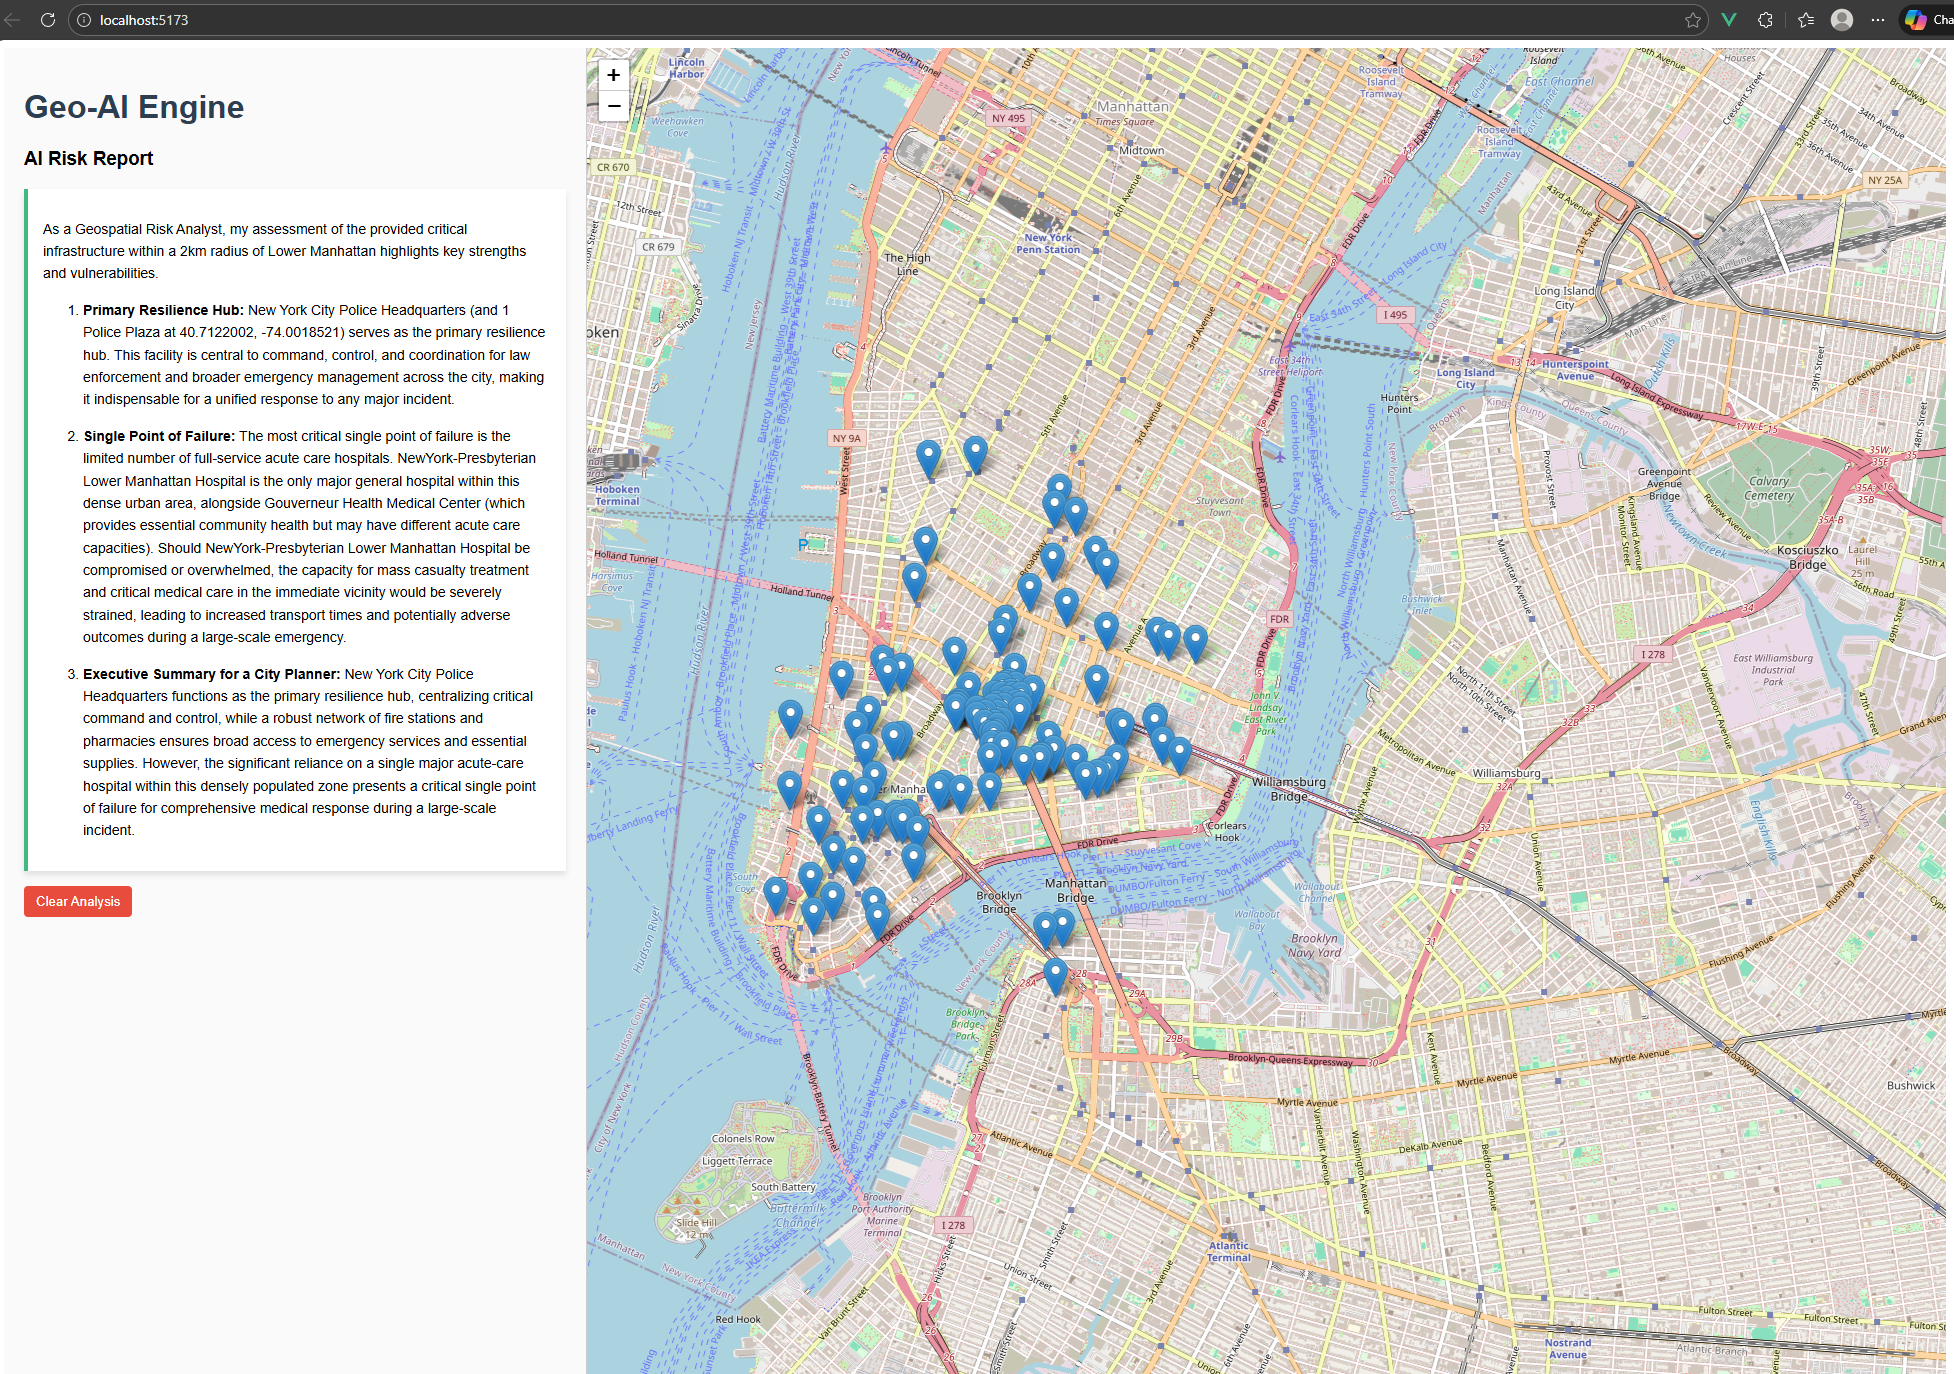
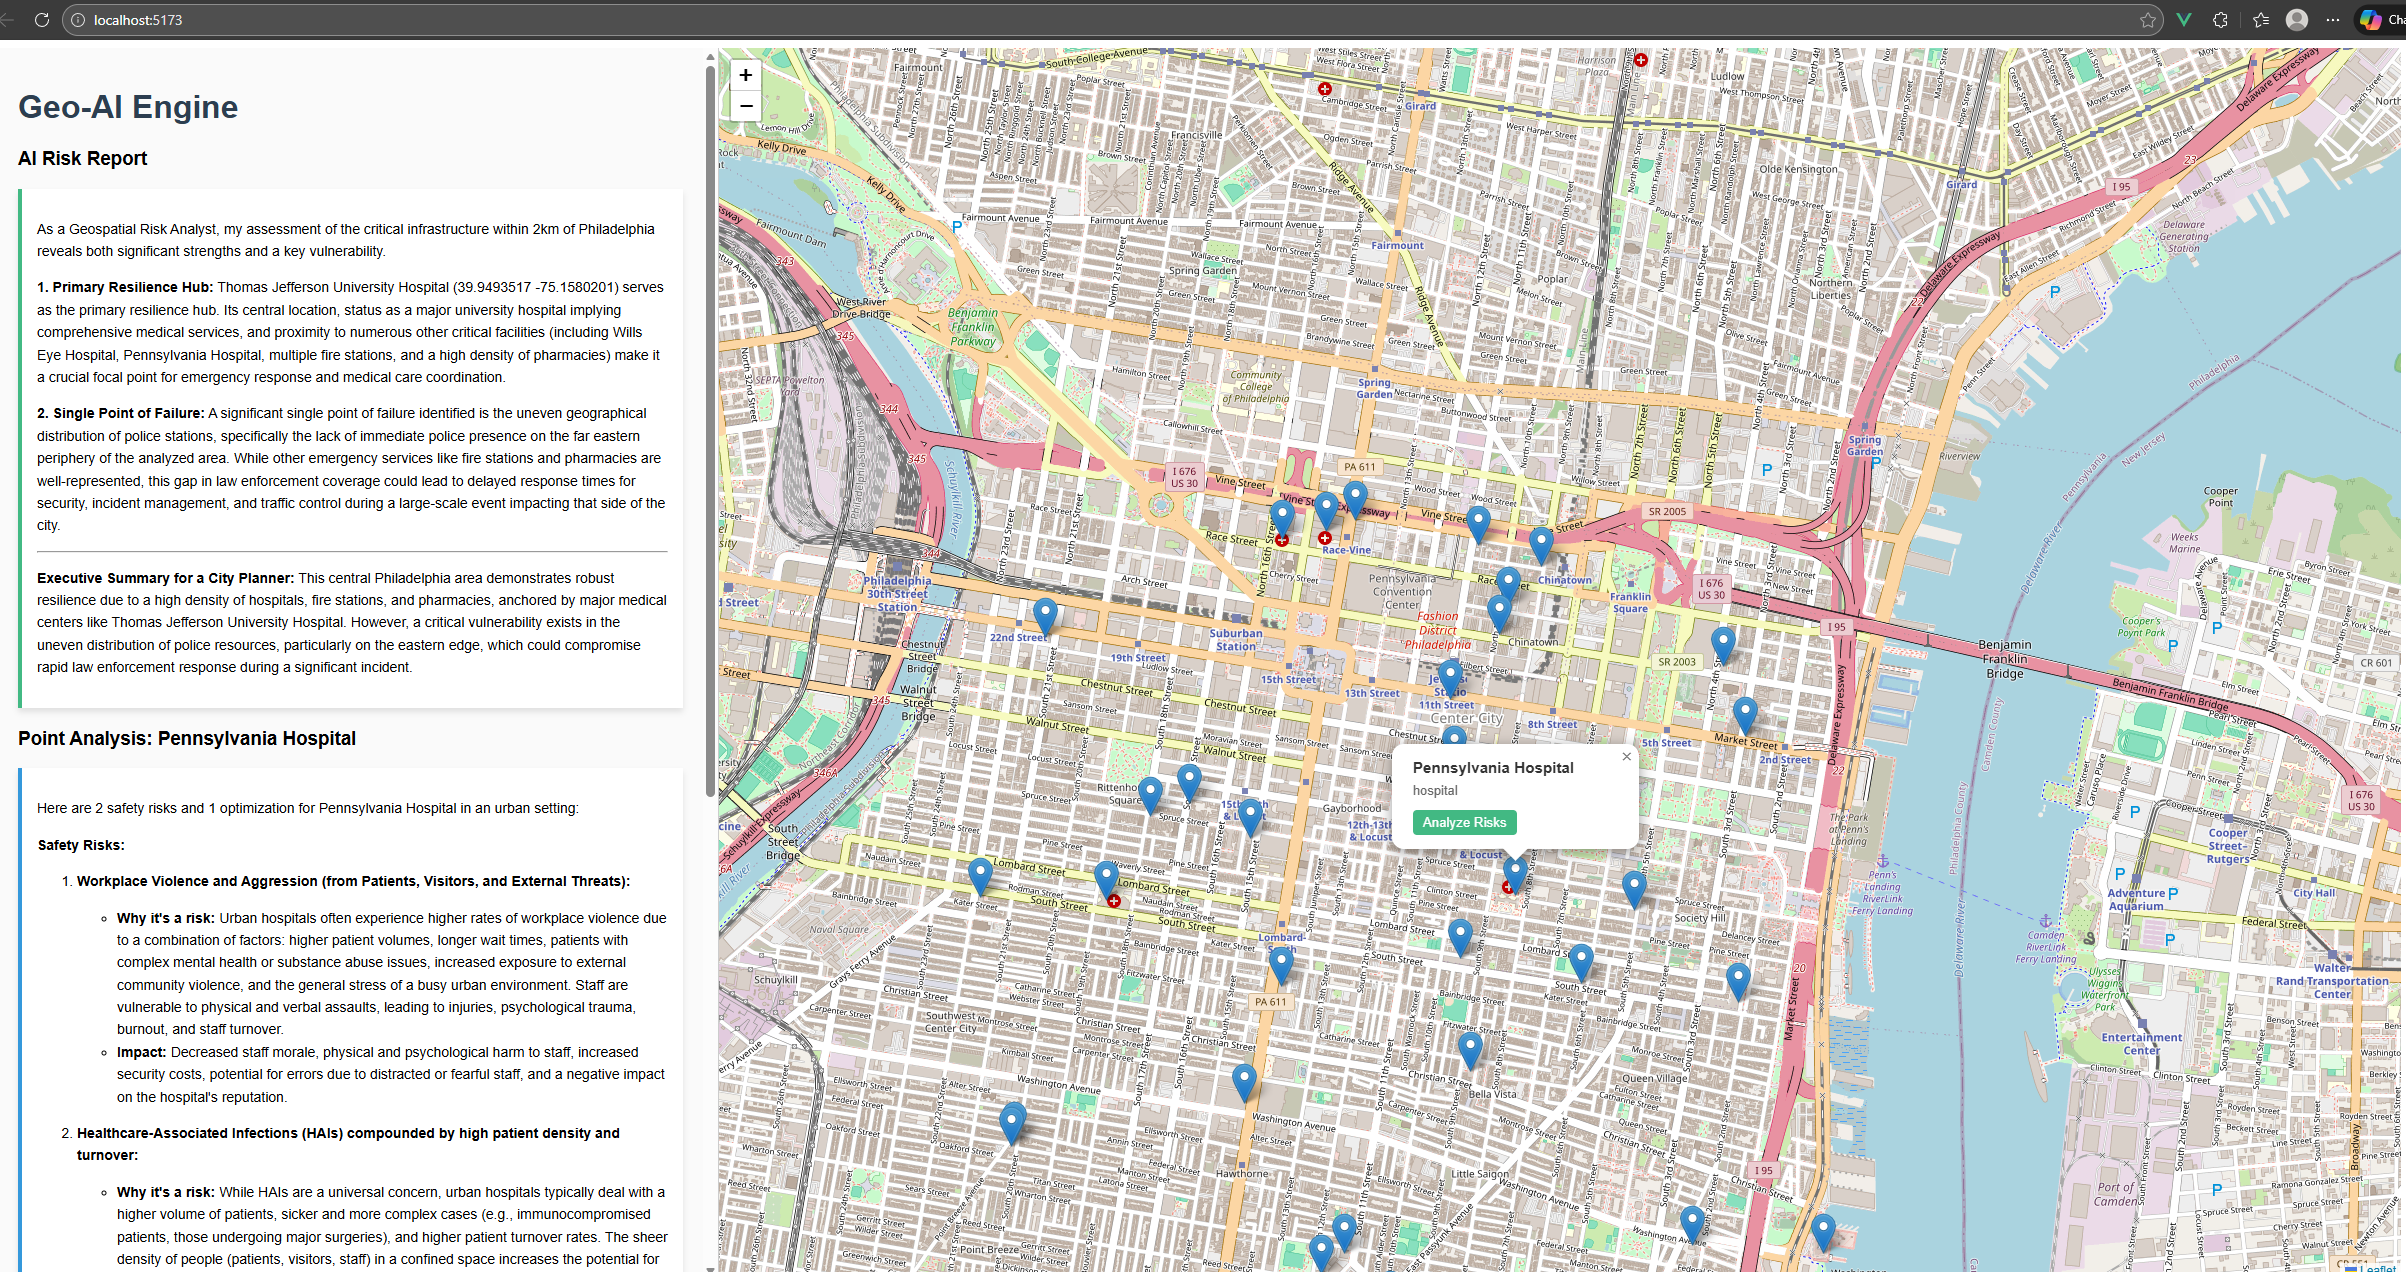
add error handling when data is not available and update screenshot

diff --git a/frontend/src/App.vue b/frontend/src/App.vue
@@ -8,11 +8,33 @@
           <div v-if="data" class="report-container">
             <h3 style="margin-top: 0;">AI Risk Report</h3>
             <div class="analysis-box">
-              <vue-markdown :source="data.riskAnalysis" />
+              <p v-if="data.error" style="color: #e74c3c; font-weight: bold;">{{ data.riskAnalysis }}</p>
+              <vue-markdown v-else :source="data.riskAnalysis" />
             </div>
-            <button @click="data = null" class="clear-btn">Clear Analysis</button>
           </div>
         </Transition>
+
+        <Transition name="slide-fade">
+          <div v-if="pointAnalysisLoading" class="analysis-box" style="margin-top: 20px; border-left-color: #3498db;">
+            <p style="margin: 0; color: #3498db;">Running detailed analysis on specific point...</p>
+          </div>
+        </Transition>
+
+        <Transition name="slide-fade">
+          <div v-if="pointAnalysis" class="report-container" style="margin-top: 20px;">
+            <h3 style="margin-top: 0;">Point Analysis: {{ pointAnalysis.name }}</h3>
+            <div class="analysis-box" style="border-left-color: #3498db;">
+              <vue-markdown :source="pointAnalysis.analysis" />
+            </div>
+            <button @click="pointAnalysis = null" class="clear-btn" style="background: #95a5a6;">Close Point
+              Analysis</button>
+          </div>
+        </Transition>
+
+        <div v-if="(data || pointAnalysis) && !loading && !pointAnalysisLoading" style="margin-top: 20px;">
+          <button @click="{ data = null; pointAnalysis = null; }" class="clear-btn">Clear All Analysis</button>
+        </div>
+
         <p v-if="!data && !loading" style="color: #7f8c8d;">
           Click anywhere on the map to generate a spatial AI analysis.
         </p>
@@ -20,12 +42,22 @@
     </div>
 
     <div style="flex: 1;">
-      <l-map ref="map" v-model:zoom="zoom" :center="center" @click="handleMapClick">
+      <l-map ref="map" v-model:zoom="zoom" :center="center" :use-global-leaflet="false"
+        style="height: 100%; width: 100%" @click="handleMapClick">
         <l-tile-layer url="https://{s}.tile.openstreetmap.org/{z}/{x}/{y}.png" />
-        <l-geo-json :geojson="data?.infraList" :options="geojsonOptions" />
         <l-marker v-for="(pt, i) in data?.infraList.features" :key="i"
           :lat-lng="[pt.geometry.coordinates[1], pt.geometry.coordinates[0]]">
-          <l-popup>{{ pt.properties.name }} ({{ pt.properties.type }})</l-popup>
+          <l-popup>
+            <div style="min-width: 200px;">
+              <h3 style="margin: 0 0 5px;">{{ pt.properties.name }}</h3>
+              <p style="margin: 0 0 10px; color: #666;">{{ pt.properties.type }}</p>
+
+              <button @click="analyzeSpecificPoint(pt)"
+                style="background: #42b983; color: white; border: none; padding: 5px 10px; border-radius: 4px; cursor: pointer;">
+                Analyze Risks
+              </button>
+            </div>
+          </l-popup>
         </l-marker>
       </l-map>
     </div>
@@ -38,17 +70,21 @@
 import { ref } from 'vue';
 import L from "leaflet";
 import VueMarkdown from 'vue-markdown-render';
-import { LMap, LTileLayer, LGeoJson, LMarker, LPopup } from "@vue-leaflet/vue-leaflet";
+import { LMap, LTileLayer, LMarker, LPopup } from "@vue-leaflet/vue-leaflet";
 import "leaflet/dist/leaflet.css";
 
-const zoom = ref(13);
-const center = ref([51.505, -0.09]);
+const zoom = ref(4);
+const center = ref([39.8283, -98.5795]);
 const data = ref(null);
 const loading = ref(false);
+const pointAnalysis = ref(null);
+const pointAnalysisLoading = ref(false);
 
 const handleMapClick = async (event) => {
   const { lat, lng } = event.latlng;
   loading.value = true;
+  data.value = null; // Reset previous data
+  pointAnalysis.value = null; // Reset point analysis
   try {
     const res = await fetch(`http://localhost:8000/api/infrastructures?withRiskAnalysis=true&lat=${lat}&lon=${lng}`);
     data.value = await res.json();
@@ -56,6 +92,24 @@ const handleMapClick = async (event) => {
     console.error("Analysis failed", err);
   } finally {
     loading.value = false;
+  }
+};
+
+const analyzeSpecificPoint = async (feature) => {
+  pointAnalysisLoading.value = true;
+  pointAnalysis.value = null;
+  try {
+    const res = await fetch(`http://localhost:8000/api/analyzePoint?amenity=${feature.properties.type}&name=${feature.properties.name}`);
+    const result = await res.json();
+    pointAnalysis.value = {
+      name: feature.properties.name,
+      type: feature.properties.type,
+      analysis: result.riskAnalysis
+    };
+  } catch (err) {
+    console.error("Point analysis failed", err);
+  } finally {
+    pointAnalysisLoading.value = false;
   }
 };
 

diff --git a/engineCore.py b/engineCore.py
@@ -20,37 +20,65 @@ def getOSMData(lat, lon, radius_meters =2000):
     out center; 
     """
     print("fetching data from overpass api")
+    headers = {
+        'User-Agent': 'Mozilla/5.0 (Windows NT 10.0; Win64; x64; rv:124.0) Gecko/20100101 Firefox/124.0',
+        'Accept': 'application/json'
+    }
 
     try:
-        response = requests.get(overpass_url, params={'data': query})
-        data = response.json()
+        response = requests.get(overpass_url, params={'data': query}, headers=headers, timeout=60)
+        
+        # Check for HTTP errors
+        if response.status_code != 200:
+            print(f"Overpass API Error: {response.status_code} - {response.text}")
+            return None, None
+            
+        try:
+            data = response.json()
+        except json.JSONDecodeError as e:
+            print(f"Failed to decode JSON from Overpass API. Response text: {response.text[:500]}")
+            return None, None
+
         dataList = []
+        if not data or 'elements' not in data:
+            print("No elements found in Overpass response")
+            return None, None
+
         #extracting the data
         nodes = data['elements']
-        locationName = data['elements'][0]['tags']['addr:city']
+        if not nodes:
+             print("Empty elements list from Overpass")
+             return None, None
+
+        # Safer way to get location name
+        locationName = "Unknown Location"
+        if nodes and 'tags' in nodes[0] and 'addr:city' in nodes[0]['tags']:
+            locationName = nodes[0]['tags']['addr:city']
+        
         print(len(nodes))
         for node in nodes:
             if node['type'] == 'node':
-                tags = node['tags']
+                tags = node.get('tags', {})
                 dataList.append({
-                    'name': tags.get('name', ''),
-                    'amenity': tags.get('amenity', ''),
+                    'name': tags.get('name', 'Unknown'),
+                    'amenity': tags.get('amenity', 'Unknown'),
                     'lat': node['lat'],
                     'lon': node['lon']
                 })
             elif node['type'] == 'way':
-                tags = node['tags']
-                dataList.append({
-                    'name': tags.get('name', ''),
-                    'amenity': tags.get('amenity', ''),
-                    'lat': node['center']['lat'],
-                    'lon': node['center']['lon']
-                })
+                tags = node.get('tags', {})
+                if 'center' in node:
+                    dataList.append({
+                        'name': tags.get('name', 'Unknown'),
+                        'amenity': tags.get('amenity', 'Unknown'),
+                        'lat': node['center']['lat'],
+                        'lon': node['center']['lon']
+                    })
         print("Data fetched successfully")
         return locationName, dataList
     except Exception as e:
         print(f"Error fetching data from overpass api: {e}")
-        return None
+        return None, None
 
 
 def analyzeInfrastructureRisk(locationName, infraList):

diff --git a/main.py b/main.py
@@ -14,22 +14,29 @@ app.add_middleware(
 
 @app.get("/api/infrastructures")
 async def getInfrastructures(lat: float, lon: float, withRiskAnalysis: bool = False):
-    location, infraList = getOSMData(lat, lon)
+    osm_data = getOSMData(lat, lon)
+    if not osm_data:
+        return {"location": "Unknown", "infraList": None, "riskAnalysis": "cannot get data for the location", "error": True}
+    
+    location, infraList = osm_data
     riskAnalysis = None
-    if withRiskAnalysis:
+    if infraList and withRiskAnalysis:
         riskAnalysis = analyzeInfrastructureRisk(location, infraList)
 
     #convert infraList to geojson
-    geojson = { 
-        "type": "FeatureCollection",
-        "features": [
-            {
-                "type": "Feature",
+    if infraList:
+        geojson = { 
+            "type": "FeatureCollection",
+            "features": [
+                {
+                    "type": "Feature",
                 "geometry": {"type": "Point", "coordinates": [item['lon'], item['lat']]},
                 "properties": {"name": item['name'], "type": item['amenity']}
-            } for item in infraList
-        ]
-    }
+                } for item in infraList
+            ]
+        }
+    else:
+        geojson = None
 
     return {"location": location, "infraList": geojson, "riskAnalysis": riskAnalysis}
 
